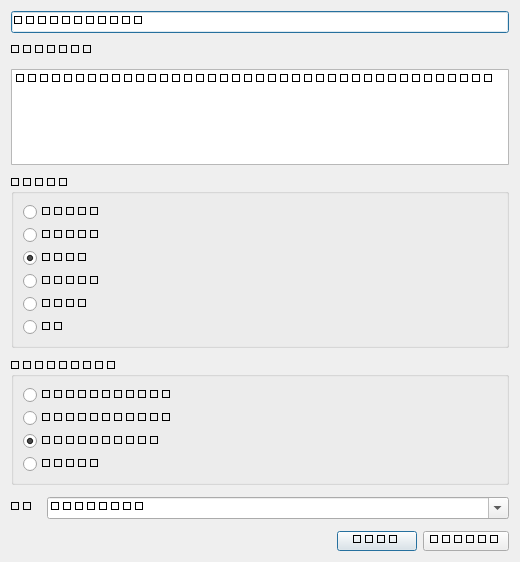
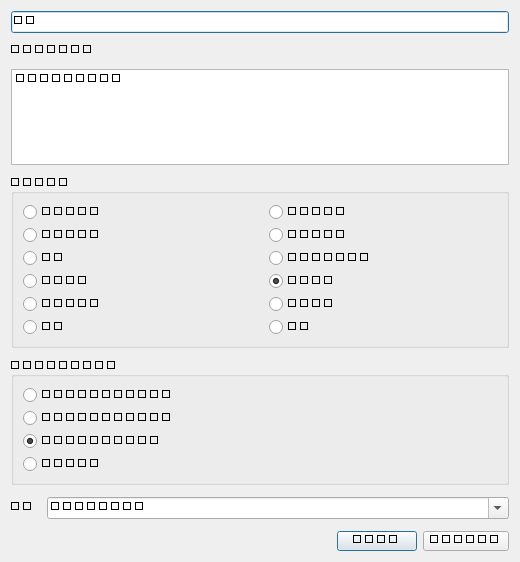
feat: broaden knowledge-base categories to 12 types in a two-column layout

diff --git a/src/multivoice/ui/review.py b/src/multivoice/ui/review.py
@@ -11,6 +11,7 @@ from PySide6.QtWidgets import (
     QDialogButtonBox,
     QFormLayout,
     QFrame,
+    QGridLayout,
     QGroupBox,
     QHBoxLayout,
     QLabel,
@@ -47,10 +48,16 @@ class TermEditDialog(QDialog):
 
     CATEGORIES = [
         ("person", "q_person"),
+        ("organization", "q_org"),
         ("product", "q_product"),
+        ("tool", "q_tool"),
+        ("instrument", "q_instrument"),
+        ("work", "q_work"),
+        ("concept", "q_concept"),
         ("slang", "q_slang"),
         ("theory", "q_theory"),
         ("event", "q_event"),
+        ("place", "q_place"),
         ("other", "q_other"),
     ]
     KINDS = [
@@ -82,13 +89,15 @@ class TermEditDialog(QDialog):
         layout.addWidget(self.definition)
 
         what_box = QGroupBox(i18n.t("q_what"))
-        what_layout = QVBoxLayout(what_box)
+        what_layout = QGridLayout(what_box)
+        what_layout.setHorizontalSpacing(18)
+        what_layout.setVerticalSpacing(6)
         self.category_group = QButtonGroup(self)
         for index, (value, label) in enumerate(self.CATEGORIES):
             radio = QRadioButton(i18n.t(label))
             radio.setProperty("value", value)
             self.category_group.addButton(radio, index)
-            what_layout.addWidget(radio)
+            what_layout.addWidget(radio, index // 2, index % 2)
             if value == "slang":
                 radio.setChecked(True)
         layout.addWidget(what_box)

diff --git a/src/multivoice/ui/i18n.py b/src/multivoice/ui/i18n.py
@@ -47,7 +47,13 @@ STRINGS: dict[str, dict[str, str]] = {
         "models_section": "Models",
         "q_what": "What is it?",
         "q_person": "A person or nickname",
+        "q_org": "An organization",
         "q_product": "A product or version",
+        "q_tool": "A tool or device",
+        "q_instrument": "A musical instrument",
+        "q_work": "A work (book, film, music)",
+        "q_concept": "A concept in the humanities",
+        "q_place": "A place",
         "q_slang": "Internet slang",
         "q_theory": "A theory or saying",
         "q_event": "A specific event",
@@ -159,7 +165,13 @@ STRINGS: dict[str, dict[str, str]] = {
         "models_section": "模型",
         "q_what": "它是什么？",
         "q_person": "人物或绰号",
+        "q_org": "机构或组织",
         "q_product": "产品或版本",
+        "q_tool": "工具或设备",
+        "q_instrument": "乐器",
+        "q_work": "作品（书影音）",
+        "q_concept": "人文概念",
+        "q_place": "地点",
         "q_slang": "网络热词",
         "q_theory": "理论或说法",
         "q_event": "具体事件",
